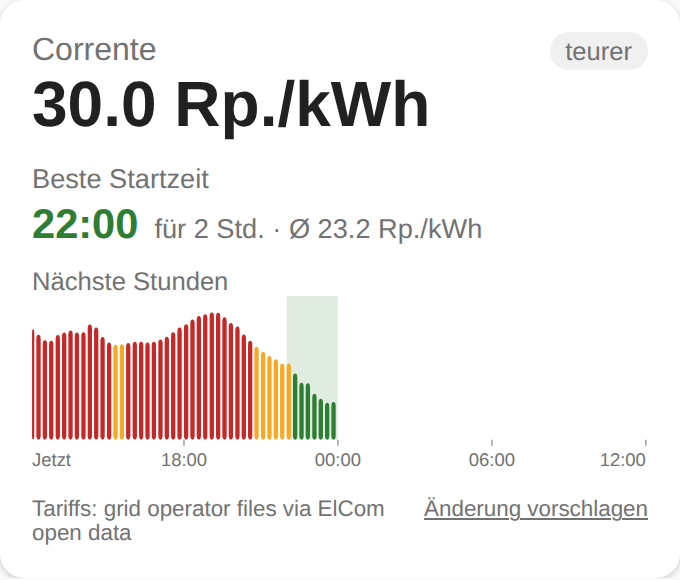
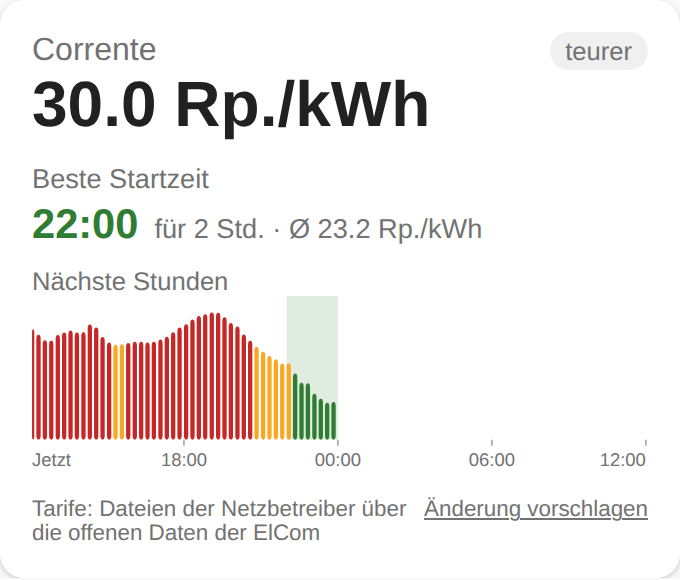
Card: riga della fonte ElCom nella lingua di chi guarda
Home Assistant non traduce le attribuzioni: la card mostra quella di ElCom in EN/IT/DE/FR;
quella del GME resta com'è (la chiedono le sue condizioni). Screenshot EKZ aggiornato.

Claude-Session: https://claude.ai/code/session_01D7MDcvgtunehyx1ydpfKbP

Changed region(s): [[0.0309, 0.8379, 0.6176, 0.931]]

diff --git a/custom_components/corrente/frontend/corrente-card.js b/custom_components/corrente/frontend/corrente-card.js
@@ -8,16 +8,16 @@
 const STRINGS = {
   en: { now: "Now", best: "Best time to start", for: "for", hours: "h", avg: "avg",
         next: "Next hours", cheap: "cheaper", dear: "dearer", unavailable: "Corrente: sensor not found",
-        startNow: "now", tomorrow: "tomorrow", suggest: "Suggest a change" },
+        startNow: "now", tomorrow: "tomorrow", suggest: "Suggest a change", elcom: "Tariffs: grid operator files via ElCom open data" },
   it: { now: "Adesso", best: "Momento migliore per avviare", for: "per", hours: "h", avg: "media",
         next: "Prossime ore", cheap: "più economico", dear: "più caro", unavailable: "Corrente: sensore non trovato",
-        startNow: "adesso", tomorrow: "domani", suggest: "Suggerisci una modifica" },
+        startNow: "adesso", tomorrow: "domani", suggest: "Suggerisci una modifica", elcom: "Tariffe: file dei gestori di rete tramite i dati aperti ElCom" },
   de: { now: "Jetzt", best: "Beste Startzeit", for: "für", hours: "Std.", avg: "Ø",
         next: "Nächste Stunden", cheap: "günstiger", dear: "teurer", unavailable: "Corrente: Sensor nicht gefunden",
-        startNow: "jetzt", tomorrow: "morgen", suggest: "Änderung vorschlagen" },
+        startNow: "jetzt", tomorrow: "morgen", suggest: "Änderung vorschlagen", elcom: "Tarife: Dateien der Netzbetreiber über die offenen Daten der ElCom" },
   fr: { now: "Maintenant", best: "Meilleur moment pour démarrer", for: "pendant", hours: "h", avg: "moy.",
         next: "Prochaines heures", cheap: "moins cher", dear: "plus cher", unavailable: "Corrente : capteur introuvable",
-        startNow: "maintenant", tomorrow: "demain", suggest: "Suggérer une modification" },
+        startNow: "maintenant", tomorrow: "demain", suggest: "Suggérer une modification", elcom: "Tarifs : fichiers des gestionnaires de réseau via les données ouvertes de l'ElCom" },
 };
 
 const HOURS_SHOWN = 24;
@@ -147,7 +147,10 @@ class CorrenteCard extends HTMLElement {
     const title = this._config.title !== undefined ? this._config.title : "Corrente";
     // The data source (e.g. "Fonte: GME", required by its terms) and a link for
     // requests; "feedback: false" in the card's YAML hides the link.
-    const source = a.attribution ? `<span>${escapeHtml(a.attribution)}</span>` : "<span></span>";
+    // Home Assistant does not translate attributions: the ElCom one is shown in the
+    // viewer's language; GME's stays as GME's terms require ("Fonte: GME").
+    const attribution = a.attribution && a.attribution.includes("ElCom") ? t.elcom : a.attribution;
+    const source = attribution ? `<span>${escapeHtml(attribution)}</span>` : "<span></span>";
     const suggest = this._config.feedback === false ? "" :
       `<a href="${SUGGEST_URL}" target="_blank" rel="noopener">${t.suggest}</a>`;
     const footHtml = a.attribution || suggest ? `<div class="foot">${source}${suggest}</div>` : "";

diff --git a/docs/PIANO.md b/docs/PIANO.md
@@ -178,12 +178,12 @@ esperto. Le richieste diventano la roadmap pubblica.
   - nessuna richiesta nuova (GitHub e modulo);
   - CKW: il 403 è la verifica anti-bot di Cloudflare; non la aggiriamo (`FONTI-DATI.md`), CKW resta fuori finché non lascia libero il file;
   - ✅ **blueprint "avviso sul prezzo"** (sotto o sopra una soglia, qualsiasi azione), provato in Home Assistant nei test;
+  - ✅ card: la riga della fonte ElCom nella lingua di chi guarda (quella del GME resta com'è, la chiedono le sue condizioni);
   - 137 test.
   - **Prossimi pezzi:**
     1. v0.1.1 (appena l'owner dà l'ok);
-    2. la riga della fonte sulla card nella lingua dell'utente;
-    3. guida Chain2 / Open Meter (Italia) e lettura del contatore svizzero;
-    4. blueprint "usa il surplus del fotovoltaico".
+    2. guida Chain2 / Open Meter (Italia) e lettura del contatore svizzero;
+    3. blueprint "usa il surplus del fotovoltaico".
 
 ## 8. Numeri di controllo
 

diff --git a/docs/TEST-A-CASA.md b/docs/TEST-A-CASA.md
@@ -81,5 +81,5 @@ Puoi lasciare la macchina virtuale accesa qualche giorno per vedere i cambi di f
 
 ### Note per Claude
 - **Prova generale fatta l'8 ottobre 2026** su un Home Assistant 2026.2.3 vero (con interfaccia web), con dati reali: Lugano/AIL giorno-notte, AIL "dinamica", Italia bioraria, PUN dal GME. Funziona tutto; nessun avviso nel registro. Trovati e corretti tre problemi (vedi `PIANO.md`, 8 ottobre). All'owner restano solo le cose che non posso vedere da qui: la sua tariffa reale, la sua rete, il suo computer, la sua impressione.
-- Limite noto: la riga della fonte svizzera sulla card è in inglese (Home Assistant non traduce l'attribuzione).
+- La riga della fonte svizzera sulla card ora è nella lingua di chi guarda (9 ottobre).
 - Dopo il test: ogni problema diventa una richiesta su GitHub; le correzioni escono come v0.1.1.

diff --git a/CHANGELOG.md b/CHANGELOG.md
@@ -8,6 +8,7 @@ All notable changes to Corrente. Versions follow [Semantic Versioning](https://s
 - Blueprint "price alert": do something (a notification, a switch…) when the price goes below or above a threshold.
 
 ### Fixed
+- Card: the Swiss data source line is shown in the viewer's language.
 - Switzerland: a dynamic tariff whose link is a web page (AIL "dinamica") now says so, instead of "try again later".
 - Switzerland: the indicative fixed price that a tariff file may give for a dynamic tariff is no longer added to the price from the operator's API.
 
